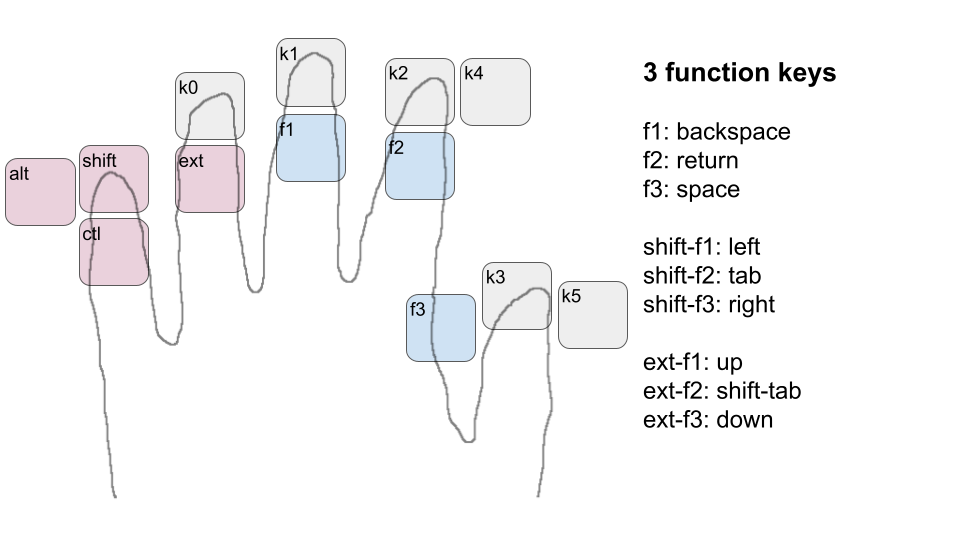
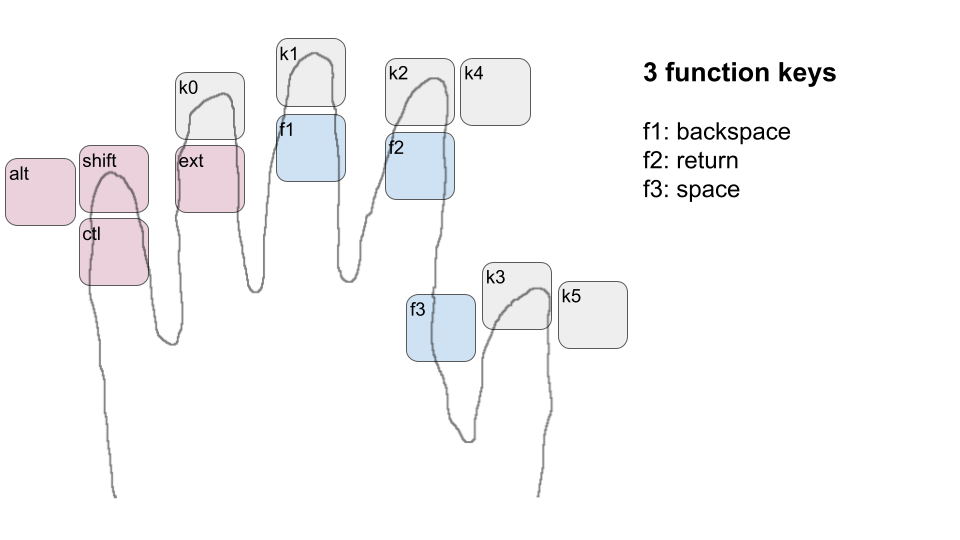
move TAB to mulitkeys table

Changed region(s): [[0.6562, 0.4444, 0.8125, 0.5926], [0.6562, 0.6519, 0.8438, 0.7407], [0.6562, 0.7704, 0.8125, 0.8]]

diff --git a/twostkbd.py b/twostkbd.py
@@ -136,7 +136,7 @@ class KbdConfig():
 
 class KbdDevice():
     BOUNCE_GUARD_SEC=0.01
-    MULTIKEY_GAP_NS=30000000
+    MULTIKEY_GAP_NS=50000000
     def __init__(self):
         self.config=KbdConfig()
         if self.config.readconf()!=0:
@@ -432,24 +432,23 @@ class KbdDevice():
 
     def on_multikeys_pressed(self, mkv:int) -> None:
         kname=self.config.multikeystable[mkv]
-        inkey=self.scancode(kname, nomod=True)
-        scode=bytearray(b"\0\0\0\0\0\0\0\0")
-        scode[0]=inkey[1]
-        scode[2]=inkey[0]
-        self.last_write=scode.decode("utf-8")
-        self.devicefd.write(self.last_write)
-        self.devicefd.flush()
+        self.hidevent_pressed(kname, "mult")
         self.multikey_pressedv=mkv
 
     def hidevent_pressed(self, kname: str, mode: str, kname0: str = 0):
         scode=bytearray(b"\0\0\0\0\0\0\0\0")
         if mode=="reg":
-            inkey=self.inkey_sk(kname0[1], kname[1])
+            inkey=self.inkey_rk(kname0[1], kname[1])
             self.modkeys_unlock()
         elif mode=="mod":
             inkey=self.scancode('')
         elif mode=="func":
             inkey=self.inkey_fkey(kname[1])
+            self.modkeys_unlock()
+        elif mode=="mult":
+            # only "TAB" uses modifiers
+            nomod=False if kname=="TAB" else True
+            inkey=self.scancode(kname, nomod=nomod)
             self.modkeys_unlock()
         else:
             return
@@ -460,7 +459,7 @@ class KbdDevice():
         self.devicefd.write(self.last_write)
         self.devicefd.flush()
 
-    def inkey_sk(self, kn1, kn2):
+    def inkey_rk(self, kn1, kn2):
         for i in range(36):
             sktable=self.config.skeytable[i]
             if sktable["1st"]!=kn1 or \
@@ -477,6 +476,23 @@ class KbdDevice():
                 return self.scancode(sktable["key"])
         else:
             return None
+
+    def inkey_fkey(self, kn):
+        fktable=self.config.fkeytable[int(kn)]
+        nomod=False
+        for mn in KbdConfig.mnames:
+            if self.modkeys[mn]:
+                fk=fktable["mfuncs"][mn]
+                if fk:
+                    nomod=True
+                    break
+        else:
+            fk=fktable["func"]
+        if not fk: return None
+        logger.debug("press %s,%d,%d,%d,%d" % (fk,
+                                               self.modkeys["shift"],self.modkeys["alt"],
+                                               self.modkeys["ctrl"],self.modkeys["ext"]))
+        return self.scancode(fk, nomod=nomod)
 
     def all_modkeys_off(self) -> bool:
         return not (self.modkeys["shift"] or self.modkeys["alt"] or \
@@ -526,23 +542,6 @@ class KbdDevice():
             self.last_write=nwd
             self.devicefd.write(self.last_write)
             self.devicefd.flush()
-
-    def inkey_fkey(self, kn):
-        fktable=self.config.fkeytable[int(kn)]
-        nomod=False
-        for mn in KbdConfig.mnames:
-            if self.modkeys[mn]:
-                fk=fktable["mfuncs"][mn]
-                if fk:
-                    nomod=True
-                    break
-        else:
-            fk=fktable["func"]
-        if not fk: return None
-        logger.debug("press %s,%d,%d,%d,%d" % (fk,
-                                               self.modkeys["shift"],self.modkeys["alt"],
-                                               self.modkeys["ctrl"],self.modkeys["ext"]))
-        return self.scancode(fk, nomod=nomod)
 
 if __name__ == '__main__':
     kbd = KbdDevice()
